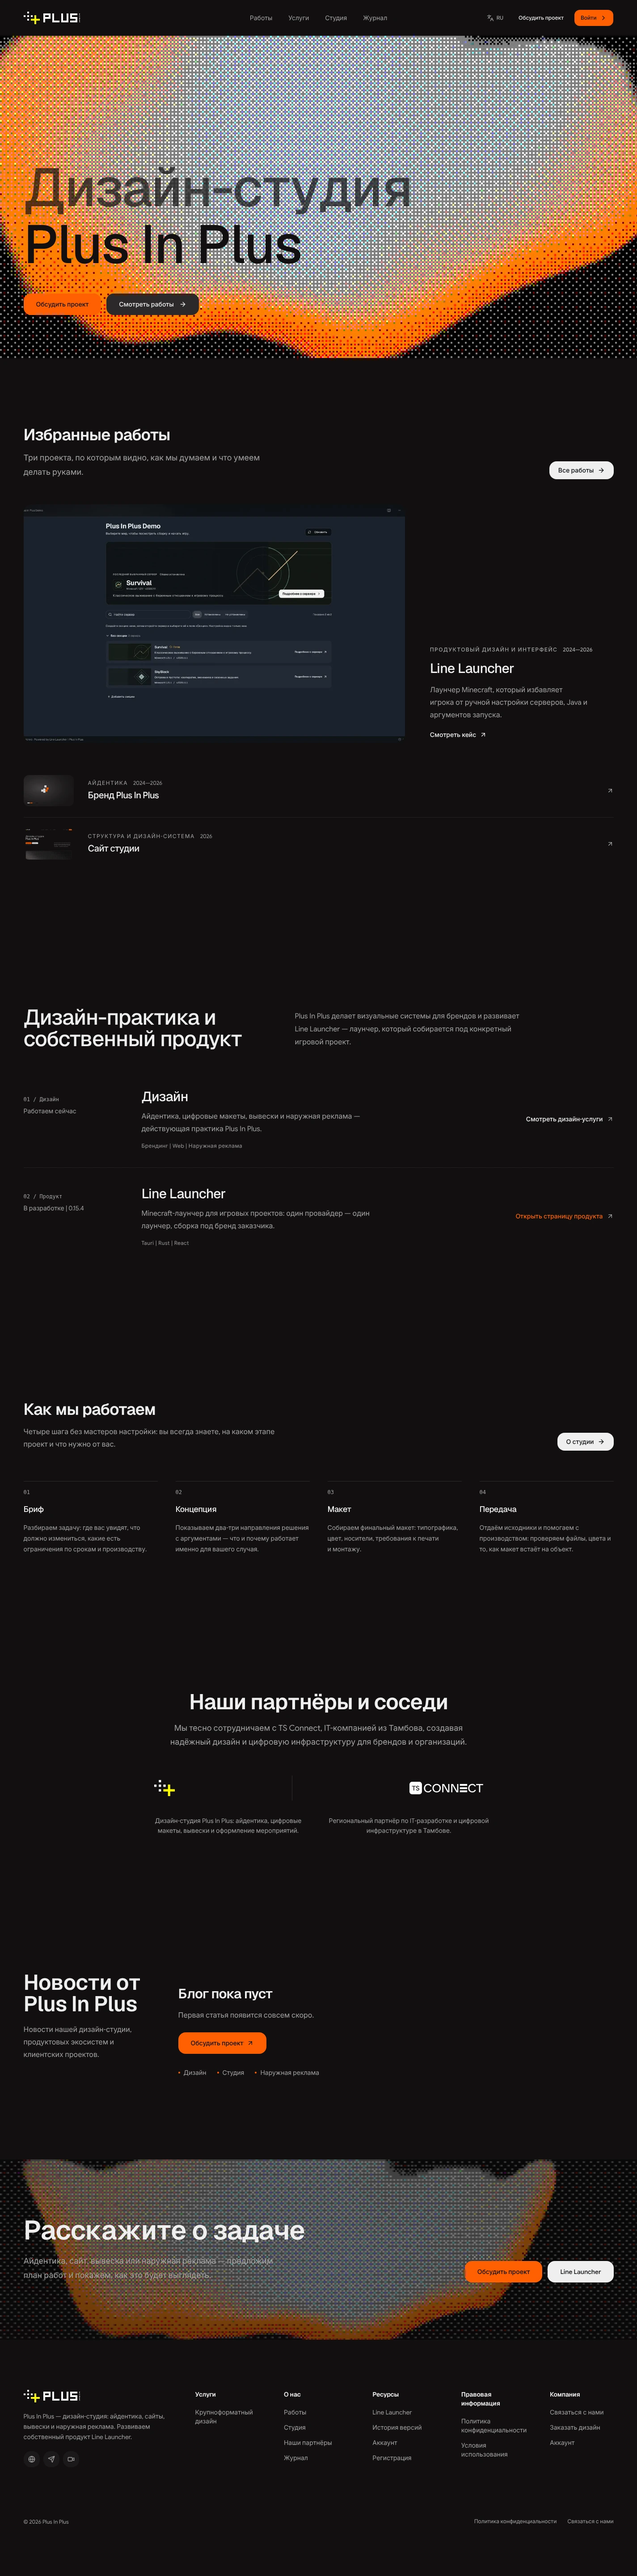
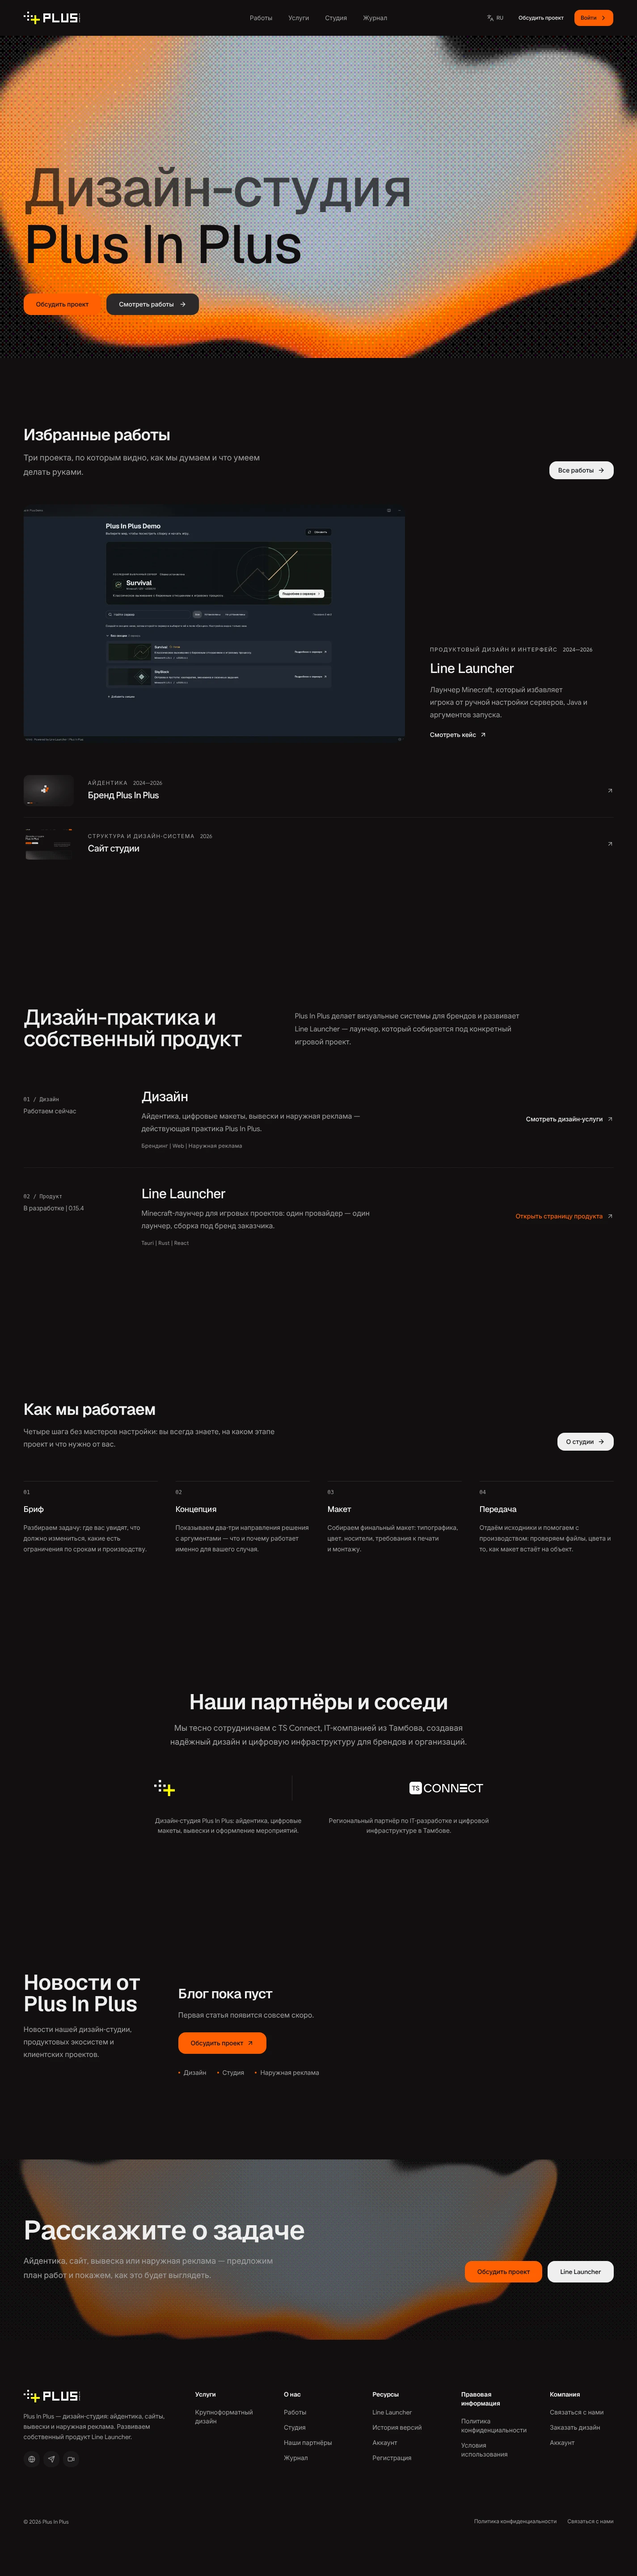
Dither: серую сетку по всему блоку убрал
Причина — не палитра и не размер клетки, а число ступеней и зерно, которые
приезжали из ссылки владельца. В шейдере steps = mix(1, 7, effectAmount):
при 0.15 оставалось две ступени, и плавный градиент квантовался в сплошную
сетку точек по всей площади, а grain 0.25 добавлял к ней серый шум.

Теперь SectionGlow и PageGlow берут из присланной ссылки краски, свет, форму
и движение, а плотность растра и зерно держат проектными: effectAmount 1 для
dither (7 ступеней), 0.9 для ascii, grain 0.02. Правило записано в скилл вместе
с проверкой кадра 1:1 в тёмном участке фона.

Скриншоты пересняты.

Changed region(s): [[0.0, 0.0, 1.0, 0.1555], [0.0, 0.8395, 1.0, 0.9017]]

diff --git a/components/site/page-glow.tsx b/components/site/page-glow.tsx
@@ -49,6 +49,9 @@ export function PageGlow({
   }, [cell]);
 
   const colors = presetConfig(preset);
+  // Краски, свет и движение — из присланного градиента; тип эффекта, размер
+  // клетки, число ступеней и зерно — правила проекта. Малое число ступеней
+  // превращало плавный градиент в сплошную серую сетку из точек.
   const config: GradientConfig = {
     version: 1,
     seed: 3,
@@ -65,17 +68,16 @@ export function PageGlow({
     palette: ["#110f10", "#2b292a", "#ff5f01"],
     background: "#110f10",
     mesh: [],
-    grain: 0.02,
     motion: "drift",
     speed: 0.3,
     loop: 0,
     hover: 0,
     hoverMode: "push",
-    // Тип эффекта и размер клетки остаются проектными: их задаёт не градиент.
+    ...(colors ?? {}),
     effect: variant === "ascii" ? "ascii" : "dither",
     effectSize,
-    effectAmount: variant === "ascii" ? 0.85 : 0.6,
-    ...(colors ?? {}),
+    effectAmount: variant === "ascii" ? 0.85 : 1,
+    grain: 0.02,
   };
 
   return (

diff --git a/components/site/section-glow.tsx b/components/site/section-glow.tsx
@@ -80,6 +80,11 @@ function buildConfig(
     ...builtIn,
     ...colors,
     effect: builtIn.effect,
+    // Число ступеней и зерно — правила проекта: из ссылки берутся краски,
+    // свет и движение, а не плотность растра. Малое число ступеней превращает
+    // плавный градиент в сплошную серую сетку из точек.
+    effectAmount: builtIn.effectAmount,
+    grain: builtIn.grain,
     effectSize,
     // База холста — цвет страницы: иначе чёрный прямоугольник шейдера виден
     // на фоне #110F10 как отдельная плашка.
